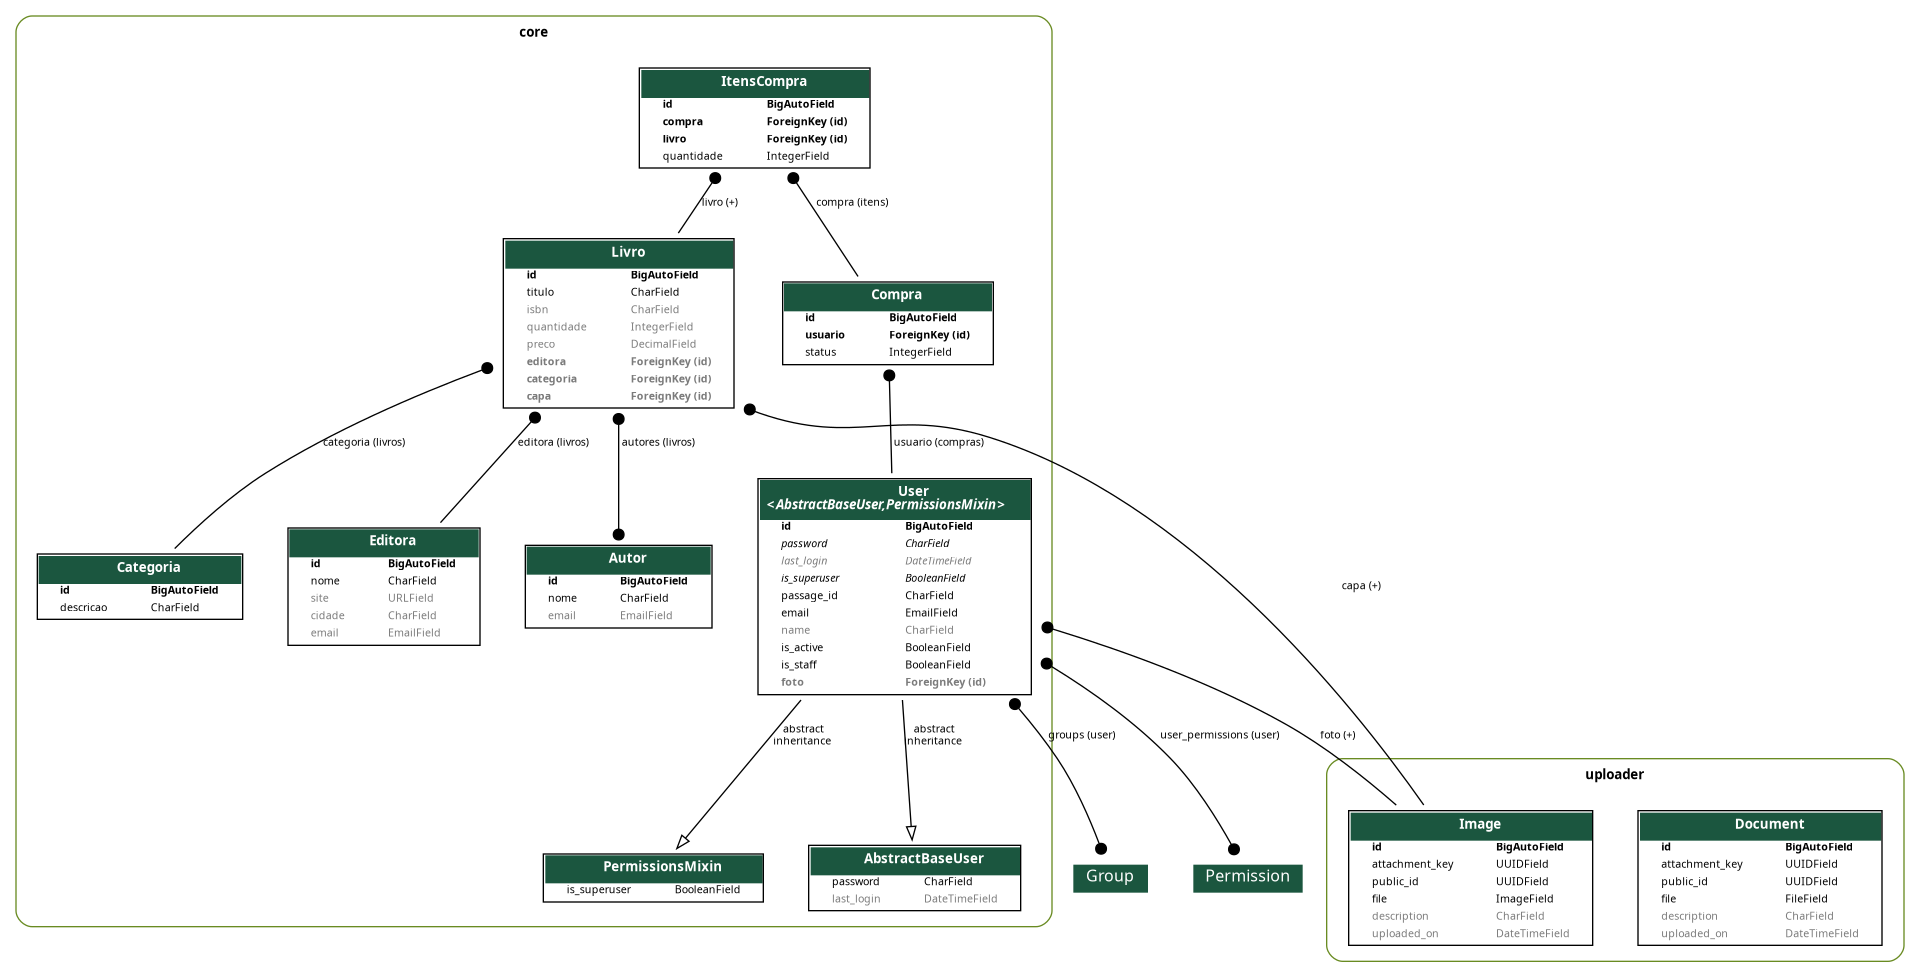
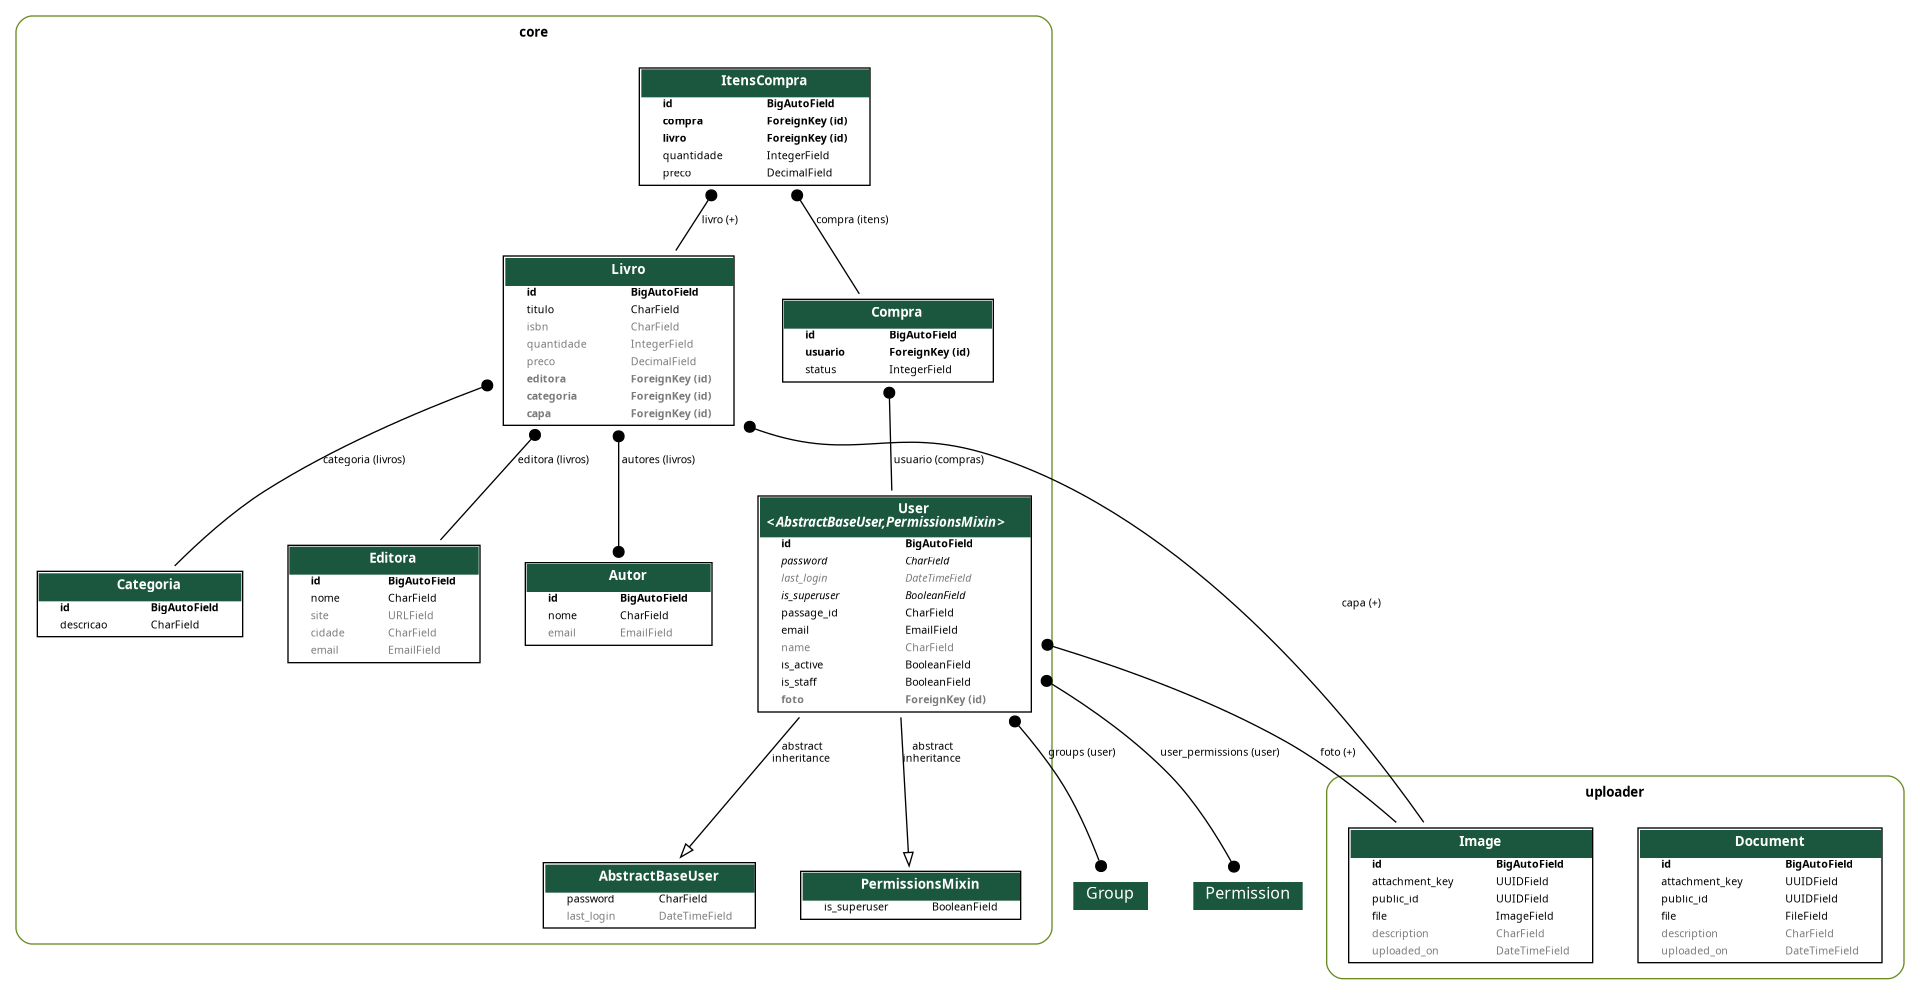
feat: adicionar campo 'preco' em ItensCompra e calcular preço histórico ao criar/atualizar compras #32

diff --git a/core/serializers/compra.py b/core/serializers/compra.py
@@ -29,16 +29,19 @@ class CompraCreateUpdateSerializer(ModelSerializer):
         itens_data = validated_data.pop('itens')
         compra = Compra.objects.create(**validated_data)
         for item_data in itens_data:
+            item['preco'] = item['livro'].preco
             ItensCompra.objects.create(compra=compra, **item_data)
         compra.save()
         return compra
 
     def update(self, compra, validated_data):
-        itens_data = validated_data.pop('itens', [])
-        if itens_data:
+        itens = validated_data.pop('itens')
+        if itens:
             compra.itens.all().delete()
-            for item_data in itens_data:
-                ItensCompra.objects.create(compra=compra, **item_data)
+            for item in itens:
+                item['preco'] = item['livro'].preco  # grava o preço histórico
+                ItensCompra.objects.create(compra=compra, **item)
+        compra.save()
         return super().update(compra, validated_data)
     
 class ItensCompraListSerializer(ModelSerializer):
@@ -65,7 +68,7 @@ class ItensCompraSerializer(ModelSerializer):
 
     class Meta:
         model = ItensCompra
-        fields = ('livro', 'quantidade', 'total')
+        fields = ('livro', 'preco', 'quantidade', 'total')
         depth = 1
 
 class CompraSerializer(ModelSerializer):
@@ -75,3 +78,6 @@ class CompraSerializer(ModelSerializer):
         model = Compra
         fields = ('id', 'usuario', 'status', 'total', 'itens')
     
+@property
+def total(self):
+    return sum(item.preco * item.quantidade for item in self.itens.all())

diff --git a/core/migrations/0020_itenscompra_preco.py b/core/migrations/0020_itenscompra_preco.py
@@ -1,0 +1,18 @@
+# Generated by Django 5.2.1 on 2025-09-02 11:32
+
+from django.db import migrations, models
+
+
+class Migration(migrations.Migration):
+
+    dependencies = [
+        ('core', '0019_alter_compra_usuario'),
+    ]
+
+    operations = [
+        migrations.AddField(
+            model_name='itenscompra',
+            name='preco',
+            field=models.DecimalField(decimal_places=2, default=0, max_digits=10),
+        ),
+    ]

diff --git a/core/models/compra.py b/core/models/compra.py
@@ -26,6 +26,7 @@ class ItensCompra(models.Model):
     compra = models.ForeignKey(Compra, on_delete=models.CASCADE, related_name='itens')
     livro = models.ForeignKey(Livro, on_delete=models.PROTECT, related_name='+')
     quantidade = models.IntegerField(default=1)
+    preco = models.DecimalField(max_digits=10, decimal_places=2, default=0)
 
     def __str__(self):
         return f'({self.id}) {self.livro} {self.quantidade}'
